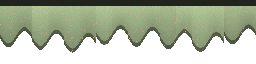
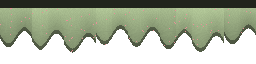
Floors: unified contour weight + chapter-derived atmosphere pass; Kvartal/Neon/Crimson tiles recoloured
Contour: side/pocket strips and the baked cap line now share one opaque 8 px
(0.0625 u) weight, matching the blocks' 17 px / 256 outline. The old mix (0.09 u
strips at 92% alpha next to a 6 px cap line and 1 px masonry seams) read as three
line weights - "old-school". All 16 chapter caps regenerated.

Atmosphere (FloorTerrain.BuildAtmosphere, zero authoring - everything derives from
the chapter's resolved fog colour): ambient hue cast on fill + cap, a seamless 3 u
weathering mottle in the haze colour (RuntimeSprites.GroundMottle), and one gradient
per run - a uniform fog wash, haze rising from the base, sky light under the cap -
replacing the flat black depth shade. Dark scenes (fog luma < ~0.2) stop the haze
pulling toward black and boost the sky light. Sorting: mottle -49, atmosphere -48,
caps/outlines -47 (STYLE.md table updated).

Pocket holes get a SpriteMask over the mottle/atmosphere range so the backdrop shows
through untinted; the mask interaction is only set when a segment has holes - a
mask-interacting sprite with no SpriteMask in the scene rendered untinted in URP.

Tiles: Kvartal grey-green -> warm khaki concrete (matches the sodium-lit suburb);
Neon and Crimson pavement lifted out of near-black so the floor separates from the
night backdrops (a per-scene pale rim contour was tried and rejected).

Changed region(s): [[0.0, 0.0938, 1.0, 0.125]]

diff --git a/Assets/SourceFiles/Scripts/Levels/FloorTerrain.cs b/Assets/SourceFiles/Scripts/Levels/FloorTerrain.cs
@@ -12,10 +12,12 @@ using UnityEngine;
 /// snag a top corner. Landing, casts, reach bounds and the camera are already collider-generic, so
 /// the runs need no further registration. All visuals are collider-free children (cosmetic only).
 ///
-/// Visual stack per run (sorting orders, STYLE.md): tiled masonry fill (ground_fill, -50), a depth
-/// shade ramp (-49), the walkable cap band (ground_cap, -48) and near-black silhouette outline
-/// strips on exposed sides (-48). Terrain-wide: a fade-to-fog ramp (-46), a back fog band + wisps
-/// (-45/-44) and a FRONT fog band + wisps (44/45) that swallow pieces falling into pillar gaps.
+/// Visual stack per run (sorting orders, STYLE.md): tiled masonry fill (ground_fill, -50, cast in
+/// the chapter's ambient hue), a haze-coloured weathering mottle (-49), an atmosphere gradient
+/// (sky light under the cap, haze toward the base, -48), the walkable cap band (ground_cap) and
+/// near-black silhouette outline strips on exposed sides (both -47). Terrain-wide: a fade-to-fog
+/// ramp (-45), a back fog band + wisps (-44/-43) and a FRONT fog band + wisps (44/45) that swallow
+/// pieces falling into pillar gaps.
 /// Wisps drift on scaled time, so a pause freezes them.
 ///
 /// The floor DATUM (height 0) is the lowest landable surface; column heights are always >= 0, so
@@ -24,8 +26,9 @@ using UnityEngine;
 public sealed class FloorTerrain : MonoBehaviour
 {
     private const int SortFill = -50;
-    private const int SortShade = -49;
-    private const int SortDetail = -48;
+    private const int SortMottle = -49;
+    private const int SortShade = -48;
+    private const int SortDetail = -47;
     private const int SortFade = -45;
     private const int SortBackFog = -44;
     private const int SortBackWisp = -43;
@@ -36,7 +39,11 @@ public sealed class FloorTerrain : MonoBehaviour
     // by whole tiles). Deep enough to cover the widest zoom-out; the fog hides the cut-off.
     private const float GroundVisualDepth = 8f;
     private const float ColliderDepth = 24f;
-    private const float OutlineWidth = 0.09f;
+    // ONE contour weight for the whole floor silhouette: the same 8 px (of 128 px/unit) the
+    // cap bakes for its top line, and within a hair of the blocks' 17 px / 256 outline, so a
+    // side strip meeting a run top meets it at equal thickness (unified 2026-09-01 - the old
+    // 0.09 strips next to a 6 px cap line read as three line weights, "old-school").
+    private const float OutlineWidth = 8f / 128f;
     private const float CapHeight = 0.5f;
 
     // Pocket-entry leniency, copied from the support islands (PHYSICS.md I4/section 3): the boxes
@@ -59,7 +66,36 @@ public sealed class FloorTerrain : MonoBehaviour
     // MinimumCameraY (0 = the datum) minus MaximumCameraSize (24), with margin.
     private const float FogSolidDepth = 40f;
 
-    private static readonly Color OutlineColor = new Color(0.03f, 0.028f, 0.035f, 0.92f);
+    // ---- atmosphere (2026-09-01): the generated masonry is flat and evenly lit while the bought
+    // backdrops are painted with haze and a unified palette - so the floor gets the same air.
+    // Everything derives from the chapter's resolved fog colour (explicit or hill-derived), zero
+    // authoring: an ambient hue cast on fill + cap, a large soft mottle in the haze colour over
+    // the masonry, and one gradient per run (sky-light lift under the cap, haze sinking toward
+    // the fog) replacing the old flat black depth shade.
+    private const float AmbientTintStrength = 0.35f;   // 0 = raw tile colours, 1 = fully the fog hue
+    private const float MottleAlpha = 0.22f;
+    private const float WashAlpha = 0.18f;            // uniform fog-colour grade over the whole run
+    private const float HazeBottomAlpha = 0.55f;
+    private const float SkyLightAlpha = 0.16f;
+    private const float SkyLightFraction = 0.22f;     // top share of each run the sky light covers
+
+    // Dark scenes (Neon, Crimson: fog luma below ~0.2) must not get darker still: over this
+    // luma window the haze stops pulling toward black and the sky-light lift grows. (A pale
+    // rim contour was tried for them and rejected - "coloured outline, old-school"; dark
+    // floors are lifted in their TEXTURES instead, see generate_ground_sprite.py.)
+    private const float DarkSceneLumaHigh = 0.32f;    // darkness 0 at/above this fog luma
+    private const float DarkSceneLumaLow = 0.12f;     // darkness 1 at/below this fog luma
+    private const float DarkSceneSkyLightBoost = 1.6f; // sky-light alpha multiplier at darkness 1
+
+    private Color _fogColor;
+    private Color _ambientTint;
+    private Color _mottleColor;
+    private float _darkness;
+    private Sprite _atmosphereRamp;                    // per-build gradient (chapter colours baked)
+
+    // Fully opaque (at 0.92 the masonry seams showed through and read as a half-transparent
+    // line). One colour for every chapter: a rim tinted per scene was rejected.
+    private static readonly Color OutlineColor = new Color(0.03f, 0.028f, 0.035f, 1f);
     private static readonly Color FillFallbackColor = new Color(0.30f, 0.27f, 0.24f);
 
     private readonly List<Transform> _wisps = new List<Transform>();
@@ -107,6 +143,7 @@ public sealed class FloorTerrain : MonoBehaviour
 
         Sprite fill = ChapterSkins.LoadGroundFill();
         Sprite cap = ChapterSkins.LoadGroundCap();
+        BuildAtmosphere(fogColor);
 
         for (int s = 0; s < segments.Count; s++)
         {
@@ -265,12 +302,29 @@ public sealed class FloorTerrain : MonoBehaviour
                 stripStart = c + 1;
             }
 
-            // Depth shade: darker toward the base so the column reads massive. One quad per run -
-            // its faint tint over a hole reads as depth haze, not paint.
-            SpriteRenderer shade = CreateChild("GroundShade", new Vector3(centerX, topY - fillHeight * 0.5f, 0f), SortShade);
-            shade.sprite = RuntimeSprites.AlphaRamp();
-            shade.color = new Color(0f, 0f, 0f, 0.38f);
+            // Weathering mottle: large soft patches (3 u tile) in the haze colour, tiled over the
+            // run so the masonry's perfect repetition breaks up. Tiling is per run, so the pattern
+            // can jump at a run boundary - that boundary always carries a side outline strip on
+            // top, and the noise is soft enough that nothing reads as a seam.
+            SpriteRenderer mottle = CreateChild("GroundMottle", new Vector3(centerX, topY - fillHeight * 0.5f, 0f), SortMottle);
+            mottle.sprite = RuntimeSprites.GroundMottle();
+            mottle.drawMode = SpriteDrawMode.Tiled;
+            mottle.size = new Vector2(width, fillHeight);
+            mottle.color = _mottleColor;
+            // Clip out of pocket holes - but ONLY when this segment has holes (and so masks):
+            // a mask-interacting sprite with no SpriteMask in the scene rendered untinted in
+            // URP (white noise glow over every hole-less floor, 2026-09-02).
+            if (pocketSpans.Count > 0) mottle.maskInteraction = SpriteMaskInteraction.VisibleOutsideMask;
+
+            // Atmosphere gradient: sky light lifting the top of the run under its cap, haze in the
+            // fog colour sinking toward the base (aerial perspective) so the column reads massive
+            // AND belongs to the backdrop's air. One quad per run - its faint tint over a hole
+            // reads as depth haze, not paint.
+            SpriteRenderer shade = CreateChild("GroundAtmosphere", new Vector3(centerX, topY - fillHeight * 0.5f, 0f), SortShade);
+            shade.sprite = _atmosphereRamp != null ? _atmosphereRamp : RuntimeSprites.AlphaRamp();
+            shade.color = _atmosphereRamp != null ? Color.white : new Color(0f, 0f, 0f, 0.38f);
             ScaleToRect(shade, width, fillHeight);
+            if (pocketSpans.Count > 0) shade.maskInteraction = SpriteMaskInteraction.VisibleOutsideMask;
 
             // Walkable cap band, skipping columns whose pocket notches the surface (depth 1).
             if (cap != null)
@@ -327,6 +381,9 @@ public sealed class FloorTerrain : MonoBehaviour
                     // open-bottomed shaft (floating fragments carve past the datum into void)
                 if (solidLeft) CreateOutlineRect(colLeft - w, colLeft, top, bottom);
                 if (solidRight) CreateOutlineRect(colLeft + grid, colLeft + grid + w, top, bottom);
+                // The run-spanning mottle + atmosphere quads would otherwise paint a faint
+                // washed square over the hole (Nick, Kvartal notches 2026-09-02): mask them out.
+                CreateHoleMask(colLeft, colLeft + grid, top, bottom);
             }
         }
 
@@ -380,6 +437,7 @@ public sealed class FloorTerrain : MonoBehaviour
             sr.sprite = fill;
             sr.drawMode = SpriteDrawMode.Tiled;
             sr.size = new Vector2(width, height);
+            sr.color = _ambientTint;
         }
         else
         {
@@ -399,6 +457,69 @@ public sealed class FloorTerrain : MonoBehaviour
         sr.sprite = cap;
         sr.drawMode = SpriteDrawMode.Tiled;
         sr.size = new Vector2(width, CapHeight);
+        sr.color = _ambientTint;
+    }
+
+    // ---- atmosphere ------------------------------------------------------------------------
+
+    private void BuildAtmosphere(Color fogColor)
+    {
+        _fogColor = new Color(fogColor.r, fogColor.g, fogColor.b, 1f);
+
+        // Ambient cast: the fog's HUE at full brightness (so it colours the masonry without
+        // darkening it), blended toward white by the strength. Neutral fogs leave tiles alone.
+        float peak = Mathf.Max(0.01f, Mathf.Max(_fogColor.r, Mathf.Max(_fogColor.g, _fogColor.b)));
+        Color hue = new Color(_fogColor.r / peak, _fogColor.g / peak, _fogColor.b / peak, 1f);
+        _ambientTint = Color.Lerp(Color.white, hue, AmbientTintStrength);
+
+        Color mottle = Color.Lerp(_fogColor, Color.black, 0.4f);
+        _mottleColor = new Color(mottle.r, mottle.g, mottle.b, MottleAlpha);
+
+        // Scene darkness from the fog's luma (drives the haze/sky-light adjustments below).
+        float luma = 0.2126f * _fogColor.r + 0.7152f * _fogColor.g + 0.0722f * _fogColor.b;
+        _darkness = Mathf.Clamp01(Mathf.InverseLerp(DarkSceneLumaHigh, DarkSceneLumaLow, luma));
+
+        // One 1x256 gradient with the chapter's colours baked, three layers folded into one
+        // texel column: a uniform fog-colour WASH (the same "grade over everything" the bought
+        // backdrops end with, pulling the masonry's value and contrast toward the scene), haze
+        // (fog pulled toward black) rising from the base, and sky light (fog pulled toward white)
+        // over the top fraction. Colour = alpha-weighted mix of the three.
+        // In a dark scene the haze stops pulling toward black (the floor is dark enough) and
+        // the sky light gets stronger, so the run top still separates from the backdrop.
+        Color hazeDark = Color.Lerp(Color.Lerp(Color.black, _fogColor, 0.65f), _fogColor, _darkness);
+        Color skyLight = Color.Lerp(_fogColor, Color.white, 0.55f);
+        float skyLightAlpha = SkyLightAlpha * Mathf.Lerp(1f, DarkSceneSkyLightBoost, _darkness);
+        const int H = 256;
+        var tex = new Texture2D(1, H, TextureFormat.RGBA32, false)
+        {
+            wrapMode = TextureWrapMode.Clamp, filterMode = FilterMode.Bilinear, hideFlags = HideFlags.HideAndDontSave
+        };
+        for (int y = 0; y < H; y++)
+        {
+            float t = (float)y / (H - 1);                                   // 0 bottom -> 1 top
+            float hazeA = HazeBottomAlpha * Mathf.Pow(1f - t, 1.4f);
+            float sky = Mathf.Clamp01((t - (1f - SkyLightFraction)) / SkyLightFraction);
+            float skyA = skyLightAlpha * sky * sky;
+            float sum = Mathf.Max(0.0001f, WashAlpha + hazeA + skyA);
+            Color c = (_fogColor * WashAlpha + hazeDark * hazeA + skyLight * skyA) / sum;
+            c.a = Mathf.Clamp01(sum);
+            tex.SetPixel(0, y, c);
+        }
+        tex.Apply();
+        _atmosphereRamp = Sprite.Create(tex, new Rect(0, 0, 1, H), new Vector2(0.5f, 0.5f), 16f, 0,
+            SpriteMeshType.FullRect);
+        _atmosphereRamp.hideFlags = HideFlags.HideAndDontSave;
+    }
+
+    private void OnDestroy()
+    {
+        if (_atmosphereRamp != null)
+        {
+            Texture2D tex = _atmosphereRamp.texture;
+            Destroy(_atmosphereRamp);
+            if (tex != null) Destroy(tex);
+            _atmosphereRamp = null;
+        }
     }
 
     /// <summary>Is this column carved hollow anywhere over the given vertical span?
@@ -412,6 +533,26 @@ public sealed class FloorTerrain : MonoBehaviour
             if (list[i].top > bottom + 0.01f && list[i].bottom < top - 0.01f) return true;
         }
         return false;
+    }
+
+    /// <summary>A SpriteMask over a pocket hole that hides ONLY the mottle/atmosphere orders
+    /// (custom range), so the backdrop shows through the hole untinted while fill, cap,
+    /// outlines and blocks are untouched.</summary>
+    private void CreateHoleMask(float left, float right, float topY, float bottomY)
+    {
+        float width = right - left;
+        float height = topY - bottomY;
+        if (width <= 0.005f || height <= 0.005f) return;
+
+        var go = new GameObject("GroundHoleMask");
+        go.transform.SetParent(transform, false);
+        go.transform.position = new Vector3((left + right) * 0.5f, (topY + bottomY) * 0.5f, 0f);
+        go.transform.localScale = new Vector3(width, height, 1f);
+        var mask = go.AddComponent<SpriteMask>();
+        mask.sprite = RuntimeSprites.Square();
+        mask.isCustomRangeActive = true;
+        mask.frontSortingOrder = SortShade;
+        mask.backSortingOrder = SortMottle;
     }
 
     private void CreateOutlineRect(float left, float right, float topY, float bottomY)

diff --git a/Tools/generate_ground_sprite.py b/Tools/generate_ground_sprite.py
@@ -502,7 +502,10 @@ def render_ground_cap(theme, cap, fleck=None, fleck_chance=0.0):
     top-lit band in the cap colour, and a scalloped lower edge (period 32 px, jittered per
     scallop) that hangs over the masonry with a shadow lip - grass/moss/sand per theme.
     Optional flecks (petals, grains) scatter inside the band."""
-    W, H, OUTLINE = 256, 64, 6
+    # OUTLINE = 8 px = 0.0625 u: the one contour weight shared with FloorTerrain's runtime
+    # side strips (OutlineWidth = 8/128) and close to the blocks' 17 px / 256 - unified
+    # 2026-09-01, the old 6 px line met 0.09 u strips at visibly different thicknesses.
+    W, H, OUTLINE = 256, 64, 8
     px = bytearray(W * H * 4)
     outline_col = tuple(c * 0.22 for c in cap)
     sd = _seed(theme)
@@ -600,8 +603,10 @@ if __name__ == "__main__":
     # cap, dark enough to belong to the night district without vanishing into it.
     render_plateau("Kvartal", (96, 104, 98), line=(44, 48, 45),
                    blocks=2, bevel=0.10, tone_steps=(1.0, 0.94), top=(88, 108, 72), top_h=22)
-    render_islands("Kvartal", (96, 104, 98), line=(44, 48, 45))
-    render_ground_fill_panels("Kvartal", (100, 106, 100), stain_strength=0.18)
+    # Fill/islands warmed 2026-09-02 (Nick): grey-green read as a stranger to the khaki
+    # sodium-lit suburb behind it - now weathered yellowish prefab concrete.
+    render_islands("Kvartal", (128, 118, 90), line=(56, 50, 38))
+    render_ground_fill_panels("Kvartal", (134, 122, 92), stain_strength=0.18)
     render_ground_cap("Kvartal", (92, 114, 76), fleck=(130, 148, 108), fleck_chance=0.008)
     remove_legacy("Kvartal")
 
@@ -671,16 +676,18 @@ if __name__ == "__main__":
 
     # Neon Nightfall: wet night promenade - large dark violet tiles catching cyan/pink
     # reflections from the glowing city, fairy-light glints along the walkable cap.
-    render_plateau("Neon", (54, 48, 76), line=(24, 20, 38), blocks=1)
-    render_islands("Neon", (54, 48, 76), line=(24, 20, 38))
-    render_ground_fill_wetpave("Neon", (44, 38, 62))
+    # Lifted 2026-09-02 (Nick): the near-black pavement vanished against the night backdrop.
+    render_plateau("Neon", (84, 76, 112), line=(30, 26, 46), blocks=1)
+    render_islands("Neon", (84, 76, 112), line=(30, 26, 46))
+    render_ground_fill_wetpave("Neon", (74, 66, 100))
     render_ground_cap("Neon", (58, 52, 82), fleck=(120, 230, 250), fleck_chance=0.014)
     remove_legacy("Neon")
 
     # Crimson Core: rain-dark boulevard under the red sun - near-black warm tiles
     # catching crimson and pale-rose sign reflections, ember glints along the cap.
-    render_plateau("Crimson", (56, 40, 44), line=(24, 14, 16), blocks=1)
-    render_islands("Crimson", (56, 40, 44), line=(24, 14, 16))
-    render_ground_fill_wetpave("Crimson", (40, 28, 32), glows=((240, 90, 90), (235, 205, 210)))
+    # Lifted 2026-09-02 (Nick): near-black tiles on a near-black city were invisible.
+    render_plateau("Crimson", (92, 66, 72), line=(34, 20, 24), blocks=1)
+    render_islands("Crimson", (92, 66, 72), line=(34, 20, 24))
+    render_ground_fill_wetpave("Crimson", (78, 56, 62), glows=((240, 90, 90), (235, 205, 210)))
     render_ground_cap("Crimson", (62, 44, 50), fleck=(245, 120, 110), fleck_chance=0.014)
     remove_legacy("Crimson")

diff --git a/Assets/SourceFiles/Scripts/Core/RuntimeSprites.Ground.cs b/Assets/SourceFiles/Scripts/Core/RuntimeSprites.Ground.cs
@@ -10,6 +10,60 @@ public static partial class RuntimeSprites
 {
     private static Sprite _alphaRamp;
     private static Sprite _softBlob;
+    private static Sprite _groundMottle;
+
+    /// <summary>Seamless 128 px value-noise tile (white, noise in ALPHA, mean ~0.5) at 128/3 ppu,
+    /// so one tile spans 3 world units: tiled over the masonry in a chapter haze colour it breaks
+    /// the fill's perfect repetition with large soft tonal patches - the painterly weathering the
+    /// bought backdrops have and a generated tile can't. Tint + strength via renderer colour.</summary>
+    public static Sprite GroundMottle()
+    {
+        if (_groundMottle != null) return _groundMottle;
+
+        const int S = 128;
+        Texture2D tex = NewTexture(S, S);
+        tex.wrapMode = TextureWrapMode.Repeat;
+        // Three octaves of periodic value noise (lattice sizes 4, 8, 16 - all divide S, so every
+        // octave wraps and the tile is seamless), smoothstep-interpolated, contrast-stretched.
+        float[] buf = new float[S * S];
+        float min = float.MaxValue, max = float.MinValue;
+        int[] lattices = { 4, 8, 16 };
+        float[] weights = { 0.55f, 0.30f, 0.15f };
+        for (int y = 0; y < S; y++)
+        {
+            for (int x = 0; x < S; x++)
+            {
+                float v = 0f;
+                for (int o = 0; o < lattices.Length; o++)
+                {
+                    int n = lattices[o];
+                    float fx = (float)x / S * n, fy = (float)y / S * n;
+                    int ix = Mathf.FloorToInt(fx), iy = Mathf.FloorToInt(fy);
+                    float tx = Mathf.SmoothStep(0f, 1f, fx - ix), ty = Mathf.SmoothStep(0f, 1f, fy - iy);
+                    float a = MottleHash(ix, iy, n, o), b = MottleHash(ix + 1, iy, n, o);
+                    float c = MottleHash(ix, iy + 1, n, o), d = MottleHash(ix + 1, iy + 1, n, o);
+                    v += weights[o] * Mathf.Lerp(Mathf.Lerp(a, b, tx), Mathf.Lerp(c, d, tx), ty);
+                }
+                buf[y * S + x] = v;
+                min = Mathf.Min(min, v); max = Mathf.Max(max, v);
+            }
+        }
+        float range = Mathf.Max(0.0001f, max - min);
+        for (int y = 0; y < S; y++)
+            for (int x = 0; x < S; x++)
+                tex.SetPixel(x, y, new Color(1f, 1f, 1f, (buf[y * S + x] - min) / range));
+        _groundMottle = Finish(tex, S / 3f);
+        return _groundMottle;
+    }
+
+    // Lattice hash that wraps at n so the noise tiles seamlessly.
+    private static float MottleHash(int x, int y, int n, int octave)
+    {
+        x = ((x % n) + n) % n; y = ((y % n) + n) % n;
+        uint h = (uint)(x * 374761393 + y * 668265263 + octave * 1274126177 + 0x9E3779B9);
+        h = (h ^ (h >> 13)) * 1274126177u; h ^= h >> 16;
+        return (h & 0xFFFFFF) / (float)0xFFFFFF;
+    }
 
     /// <summary>1x256 white ramp: alpha 1 at the BOTTOM easing to 0 at the top. World size
     /// (1/16 x 16) at 16 ppu - scale to fit. Tint via renderer colour (its alpha caps the ramp).</summary>

diff --git a/FLOORS.md b/FLOORS.md
@@ -119,7 +119,8 @@ render_ground_cap("<Theme>", (r, g, b),                   # cap band colour
   | `render_ground_fill_basalt` | dark running-bond basalt panels, a few bedding joints glowing molten (guaranteed ≥ 1 per tile), ember specks | Volcano |
 
 - `ground_cap.png` — 256×64 = **2×0.5 u, horizontally seamless**. Baked near-black top
-  outline (THE landable line), top-lit band, scalloped shadowed lower edge, flecks.
+  outline (THE landable line; 8 px = the same 0.0625 u as the runtime side strips - one
+  contour weight, see STYLE.md), top-lit band, scalloped shadowed lower edge, flecks.
 - Rerun `python3 Tools/generate_ground_sprite.py`. Import settings auto-apply to any
   `ground_*` file under `Assets/Resources/Skins/<Theme>/`. A theme without its own set
   falls back to Classic. **New chapter look = two lines + rerun.** All styles work with
@@ -136,8 +137,13 @@ render_ground_cap("<Theme>", (r, g, b),                   # cap band colour
    writing the same file name/size — keeps the "everything is regenerable" property. Never
    fork the pipeline; add a function + preset parameters.
 
-Runtime dressing (free, per shape): depth-shade ramp, near-black silhouette outlines on
-exposed sides (split around pocket openings), the fade into fog. Sorting orders in STYLE.md.
+Runtime dressing (free, per shape): the **atmosphere pass** (2026-09-01 - everything derived
+from the chapter's resolved fog colour, no authoring): an ambient hue cast on fill + cap, a
+seamless 3 u weathering mottle in the haze colour, and one gradient per run (sky light under
+the cap, fog haze toward the base) that replaced the flat black depth shade; near-black
+silhouette outlines on exposed sides (split around pocket openings); the fade into fog.
+Dials are the `Ambient*/Mottle*/Haze*/SkyLight*` constants in `FloorTerrain.cs`. Sorting
+orders in STYLE.md.
 
 ---
 

diff --git a/STYLE.md b/STYLE.md
@@ -31,8 +31,11 @@ here changes, change it in every generator (and the C# constant it mirrors).
   outline colour `lerp(tint, luma, 0.30) * 0.22`.)
 - Ground terrain: the cap band bakes a near-black top outline (the landable
   line), and exposed column sides get near-black silhouette strips at
-  runtime. Edges stay crisp and axis-aligned; the invariant is "darker shade
-  of itself", not the exact strength.
+  runtime — **one weight everywhere: 8 px at 128 px/unit (0.0625 u), fully
+  opaque**, matching the blocks' 17 px / 256. Edges stay crisp and
+  axis-aligned; the invariant is "darker shade of itself", not the exact
+  strength. Never mix widths or alphas on the floor: three line weights read
+  as old-school pixel art (2026-09-01).
 
 **Lighting (the light always comes from straight above)**
 - Vertical gradient on every body: **1.13× at the top edge falling to 0.77×
@@ -69,7 +72,7 @@ here changes, change it in every generator (and the C# constant it mirrors).
 - Background −100 · hills/scenery −86…−83 · placement beam −60 · loss lasers −57…−51
   (Sacrifice/Hardline warning lines: behind the ground and blocks, in front of the
   backdrop) · ground fill −50 ·
-  ground shade −49 · caps/outlines −48 · ground fade −45 · back fog −44/−43 ·
+  ground mottle −49 · ground atmosphere −48 · caps/outlines −47 · ground fade −45 · back fog −44/−43 ·
   blocks 0 · front fog 44/45 (pieces falling into gaps sink INTO it). Pockets are
   REAL holes in the fill geometry (backdrop shows through), outlined only on
   their solid edges.
